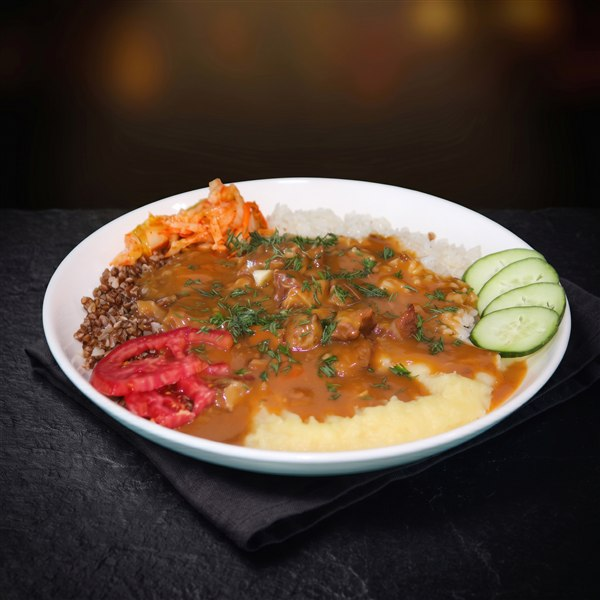
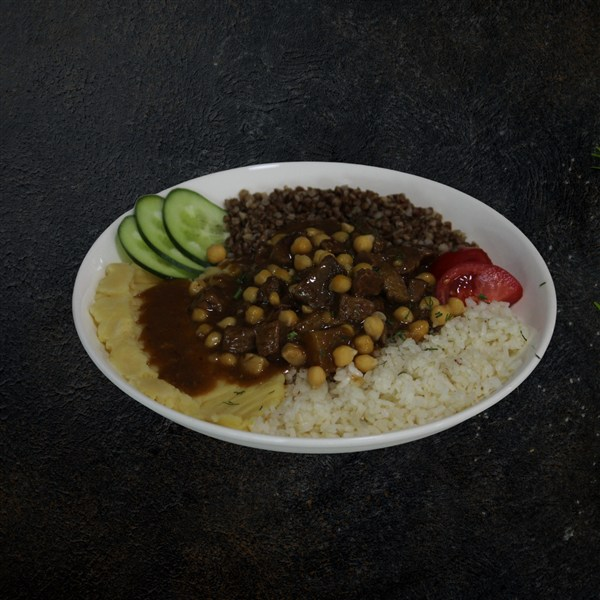
Add 8 new dishes: Blyudo ot shefa, Kuurdak, Lagman boso/gyuro, Zharovnya fri x2, Bishsteks, Ganfan, Befstroganov; update Gulyash photo

diff --git a/app/data/menu.ts b/app/data/menu.ts
@@ -151,6 +151,15 @@ export const menuCategories: MenuCategory[] = [
       { name: 'Жаровня', price: 450, image: '/images/zharovnya.jpg' },
       { name: 'Манты', price: 200, image: '/images/manty.jpg' },
       { name: 'Гуляш', price: 310, image: '/images/gulyash.jpg' },
+      { name: 'Блюдо от шефа', price: 450, image: '/images/blyudo-ot-shefa.jpg' },
+      { name: 'Куурдак', price: 500, image: '/images/kuurdak.jpg' },
+      { name: 'Лагман босо', price: 300, image: '/images/lagman-boso.jpg' },
+      { name: 'Жаровня из курицы фри', price: 390, image: '/images/zharovnya-fri.jpg' },
+      { name: 'Жаровня из говядины фри', price: 400, image: '/images/zharovnya-fri.jpg' },
+      { name: 'Лагман гюро', price: 300, image: '/images/lagman-gyuro.jpg' },
+      { name: 'Бишштекс', price: 295, image: '/images/bishsteks.jpg' },
+      { name: 'Ганфан', price: 305, image: '/images/ganfan.jpg' },
+      { name: 'Бефстроганов', price: 350, image: '/images/befstroganov.jpg' },
     ],
   },
   {